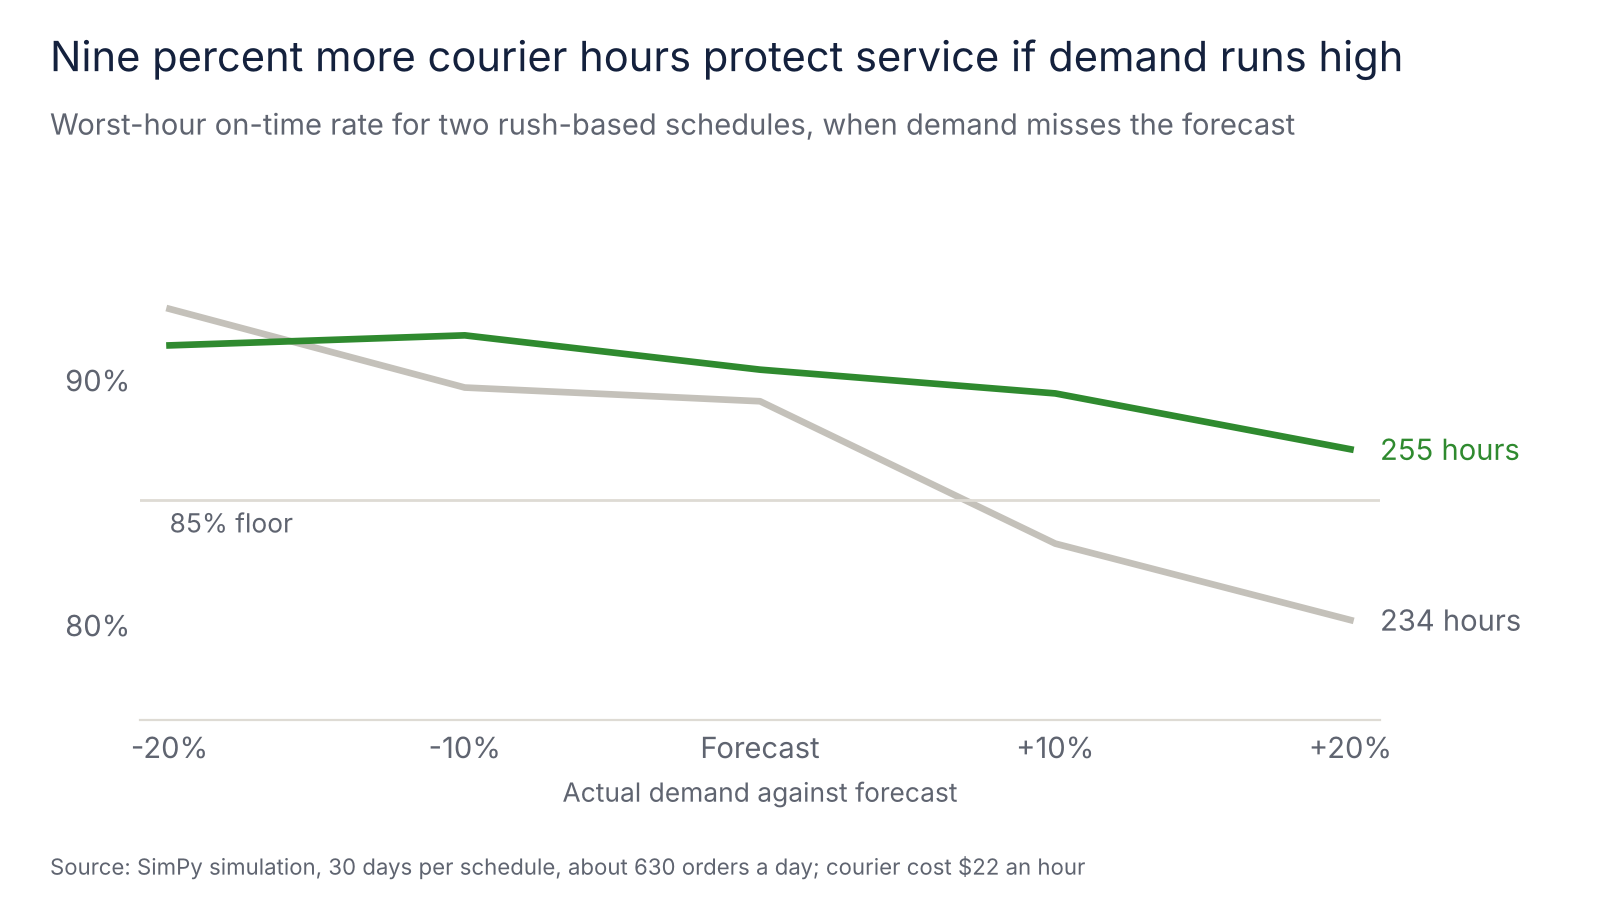
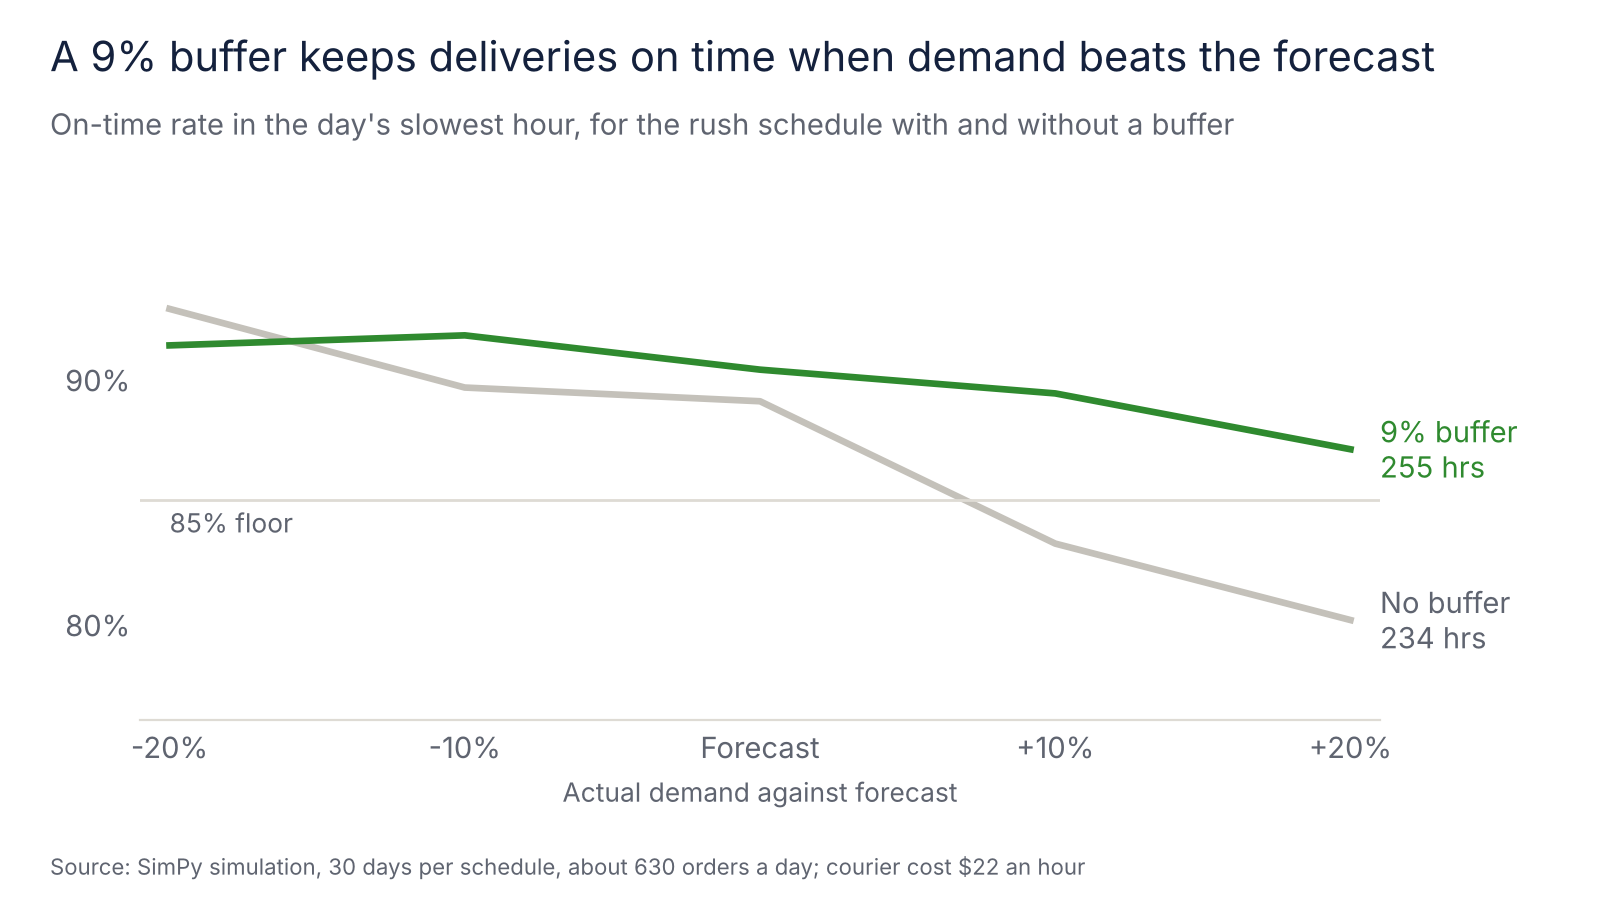
Charts a first-time reader can follow: plain headlines and explained labels

diff --git a/scripts/brand_style.py b/scripts/brand_style.py
@@ -8,6 +8,7 @@ Colours are validated with the dataviz palette checks (lightness band, chroma, c
 import matplotlib
 import matplotlib.pyplot as plt
 import matplotlib.ticker
+import matplotlib.transforms
 
 INK = "#14213d"        # navy: headlines, values, key labels
 MUTED = "#5f6470"      # deck, axis labels, source line (5.9:1 on white)
@@ -123,7 +124,23 @@ def save(fig, path):
     plt.close(fig)
 
 
-def hbar(ax, labels, values, highlight, fmt, color, xmax=None):
+def _row_labels(ax, ys, labels, highlight, sublabels=None):
+    """Category labels at the left of the plot, with an optional smaller second line that explains them."""
+    ax.set_yticks(ys)
+    if not sublabels:
+        ax.set_yticklabels(labels)
+        for i, t in enumerate(ax.get_yticklabels()):
+            t.set_color(INK if i in highlight else MUTED)
+        return
+    ax.set_yticklabels([""] * len(ys))
+    tr = matplotlib.transforms.blended_transform_factory(ax.transAxes, ax.transData)
+    for i, (y, lab, sub) in enumerate(zip(ys, labels, sublabels)):
+        ax.text(-0.02, y + 0.13, lab, transform=tr, ha="right", va="center", fontsize=VALUE,
+                color=INK if i in highlight else MUTED)
+        ax.text(-0.02, y - 0.2, sub, transform=tr, ha="right", va="center", fontsize=8.5, color=MUTED)
+
+
+def hbar(ax, labels, values, highlight, fmt, color, xmax=None, sublabels=None):
     """Horizontal bars, first item at the top. highlight: set of indexes drawn in the project colour."""
     n = len(values)
     ys = list(range(n))[::-1]
@@ -135,14 +152,11 @@ def hbar(ax, labels, values, highlight, fmt, color, xmax=None):
         ax.barh(y, v, height=0.62, color=c, linewidth=0)
         small_neg = v < 0 and abs(v) < span * 0.05   # label a tiny negative on the right, like the rest
         ha, x = ("left", max(v, 0) + span * 0.015) if v >= 0 or small_neg else ("right", v - span * 0.015)
-        ax.text(x, y, fmt(v), va="center", ha=ha, fontsize=VALUE, color=INK if i in highlight else MUTED)
-    ax.set_yticks(ys)
-    ax.set_yticklabels(labels)
-    for i, t in enumerate(ax.get_yticklabels()):
-        t.set_color(INK if i in highlight else MUTED)
+        ax.text(x, y, fmt[i] if isinstance(fmt, list) else fmt(v), va="center", ha=ha, fontsize=VALUE, color=INK if i in highlight else MUTED)
+    _row_labels(ax, ys, labels, highlight, sublabels)
     ax.set_ylim(-0.6, n - 0.4)
     big_neg = lo < -span * 0.05
-    ax.set_xlim(lo - span * 0.16 if big_neg else min(lo, 0), hi + span * 0.16)
+    ax.set_xlim(lo - span * 0.3 if big_neg else min(lo, 0), hi + span * 0.16)
     ax.set_xticks([])
     ax.axvline(0, color=HAIRLINE, linewidth=1)
     return ax
@@ -155,7 +169,7 @@ def vbar(ax, labels, values, highlight, fmt, color, ymax=None):
     for x, v, i in zip(xs, values, range(len(values))):
         c = color if i in highlight else CONTEXT
         ax.bar(x, v, width=0.62, color=c, linewidth=0)
-        ax.text(x, v + hi * 0.02, fmt(v), ha="center", va="bottom", fontsize=VALUE,
+        ax.text(x, v + hi * 0.02, fmt[i] if isinstance(fmt, list) else fmt(v), ha="center", va="bottom", fontsize=VALUE,
                 color=INK if i in highlight else MUTED)
     ax.set_xticks(list(xs))
     ax.set_xticklabels(labels)
@@ -167,7 +181,7 @@ def vbar(ax, labels, values, highlight, fmt, color, ymax=None):
     return ax
 
 
-def dotrange(ax, labels, est, lo, hi, highlight, fmt, color, xlim=None, zero=True):
+def dotrange(ax, labels, est, lo, hi, highlight, fmt, color, xlim=None, zero=True, sublabels=None):
     """Estimate with its interval: a dot on a range line, first item at the top."""
     n = len(est)
     ys = list(range(n))[::-1]
@@ -177,10 +191,7 @@ def dotrange(ax, labels, est, lo, hi, highlight, fmt, color, xlim=None, zero=Tru
         ax.scatter([e], [y], s=80, color=c, zorder=3, linewidths=0)
         ax.text(e, y + 0.26, fmt(e), ha="center", va="bottom", fontsize=VALUE,
                 color=INK if i in highlight else MUTED)
-    ax.set_yticks(ys)
-    ax.set_yticklabels(labels)
-    for i, t in enumerate(ax.get_yticklabels()):
-        t.set_color(INK if i in highlight else MUTED)
+    _row_labels(ax, ys, labels, highlight, sublabels)
     ax.set_ylim(-0.6, n - 0.2)
     if xlim:
         ax.set_xlim(*xlim)

diff --git a/scripts/make_charts.py b/scripts/make_charts.py
@@ -26,7 +26,7 @@ b.save(fig, OUT / "01_service_vs_courier_hours.png")
 # Chart 2: forecast stress test
 f = pd.read_csv(RES / "forecast_stress_test.csv")
 fig, ax = b.chart(height=4.6, label_in=0.45, xaxis=True, right_in=1.1)
-for sc, col, lbl in [("shaped_0.36", b.CONTEXT, "234 hours"), ("shaped_0.39", HL, "255 hours")]:
+for sc, col, lbl in [("shaped_0.36", b.CONTEXT, "No buffer\n234 hrs"), ("shaped_0.39", HL, "9% buffer\n255 hrs")]:
     d = f[f.scenario == sc].sort_values("demand_scale")
     x = (d.demand_scale - 1) * 100
     ax.plot(x, d.worst_hour_on_time_rate * 100, color=col, linewidth=2.4)
@@ -42,8 +42,8 @@ ax.set_yticks([80, 90])
 ax.set_yticklabels(["80%", "90%"])
 ax.set_xlabel("Actual demand against forecast", color=b.MUTED, fontsize=9.5)
 b.line_axes(ax)
-b.titles(fig, "Nine percent more courier hours protect service if demand runs high",
-         "Worst-hour on-time rate for two rush-based schedules, when demand misses the forecast")
+b.titles(fig, "A 9% buffer keeps deliveries on time when demand beats the forecast",
+         "On-time rate in the day's slowest hour, for the rush schedule with and without a buffer")
 b.credit(fig, SRC)
 b.save(fig, OUT / "02_forecast_stress_test.png")
 
@@ -57,7 +57,7 @@ fig, ax = b.chart(height=4.4, label_in=0.0, right_in=0.3, xaxis="ticks")
 b.vbar(ax, [f"{x % 12 or 12}{'am' if x < 12 else 'pm'}" for x in hours], couriers,
        {i for i, c in enumerate(couriers) if c > 28}, lambda v: f"{v}", HL)
 ax.axhline(28, color=b.HAIRLINE, linewidth=1)
-ax.text(len(hours) - 0.5, 28.8, "Flat: 28", ha="right", fontsize=9.5, color=b.MUTED)
+ax.text(len(hours) - 0.5, 28.8, "Same all day: 28", ha="right", fontsize=9.5, color=b.MUTED)
 ax.tick_params(axis="x", labelsize=9.5)
 b.titles(fig, "Couriers should follow the lunch and dinner rush",
          "Couriers online each hour in the recommended 255-hour schedule")

diff --git a/README.md b/README.md
@@ -25,7 +25,7 @@ Two ways to schedule couriers are compared. A **flat** schedule keeps the same n
 
 ![Staffing couriers to the lunch and dinner rush cuts cost per order by 31%](charts/01_service_vs_courier_hours.png)
 
-![Nine percent more courier hours protect service if demand runs high](charts/02_forecast_stress_test.png)
+![A 9% buffer keeps deliveries on time when demand beats the forecast](charts/02_forecast_stress_test.png)
 
 ![Couriers should follow the lunch and dinner rush](charts/03_hourly_schedule.png)
 
